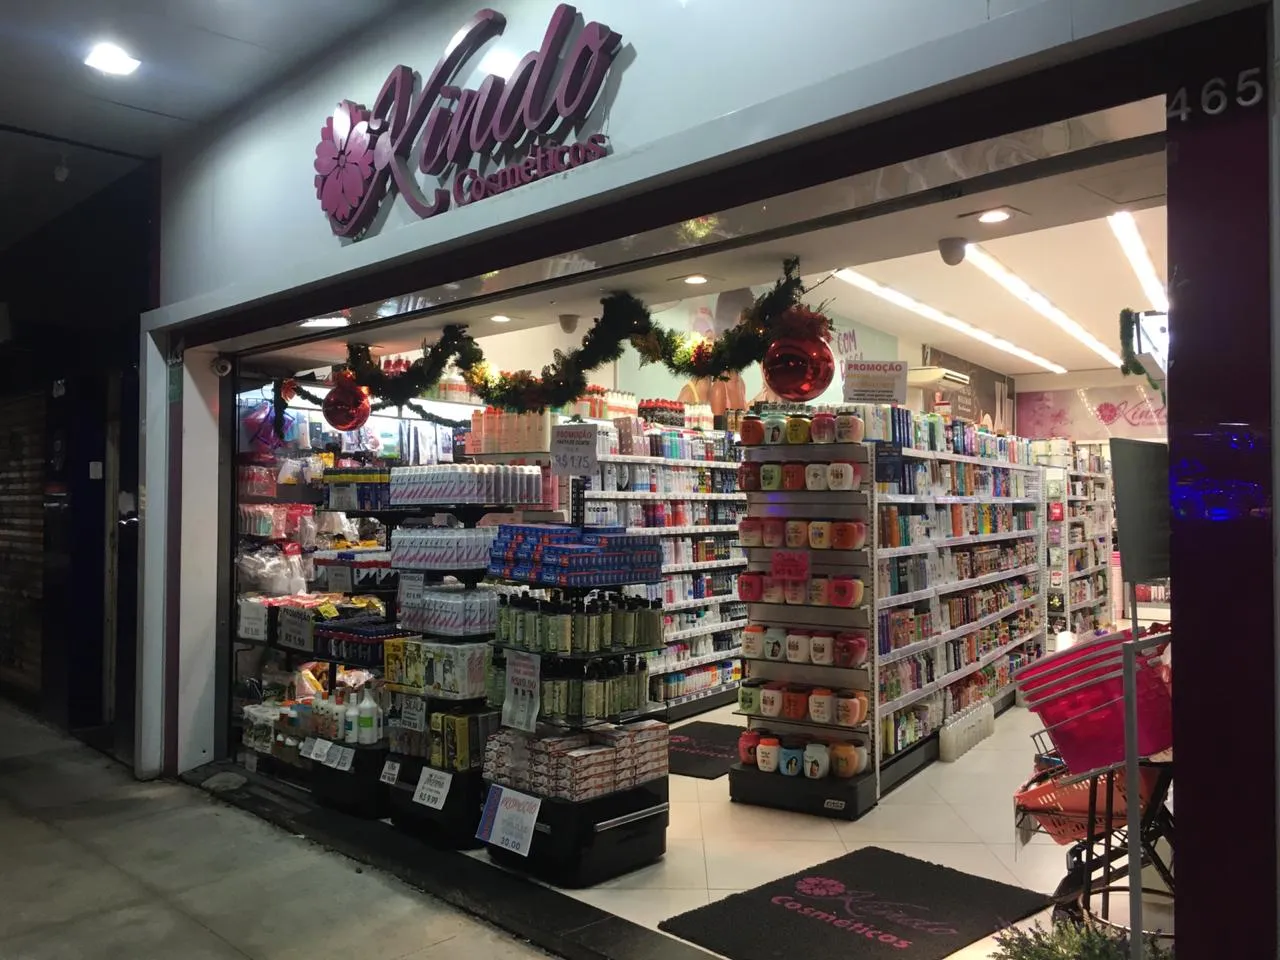
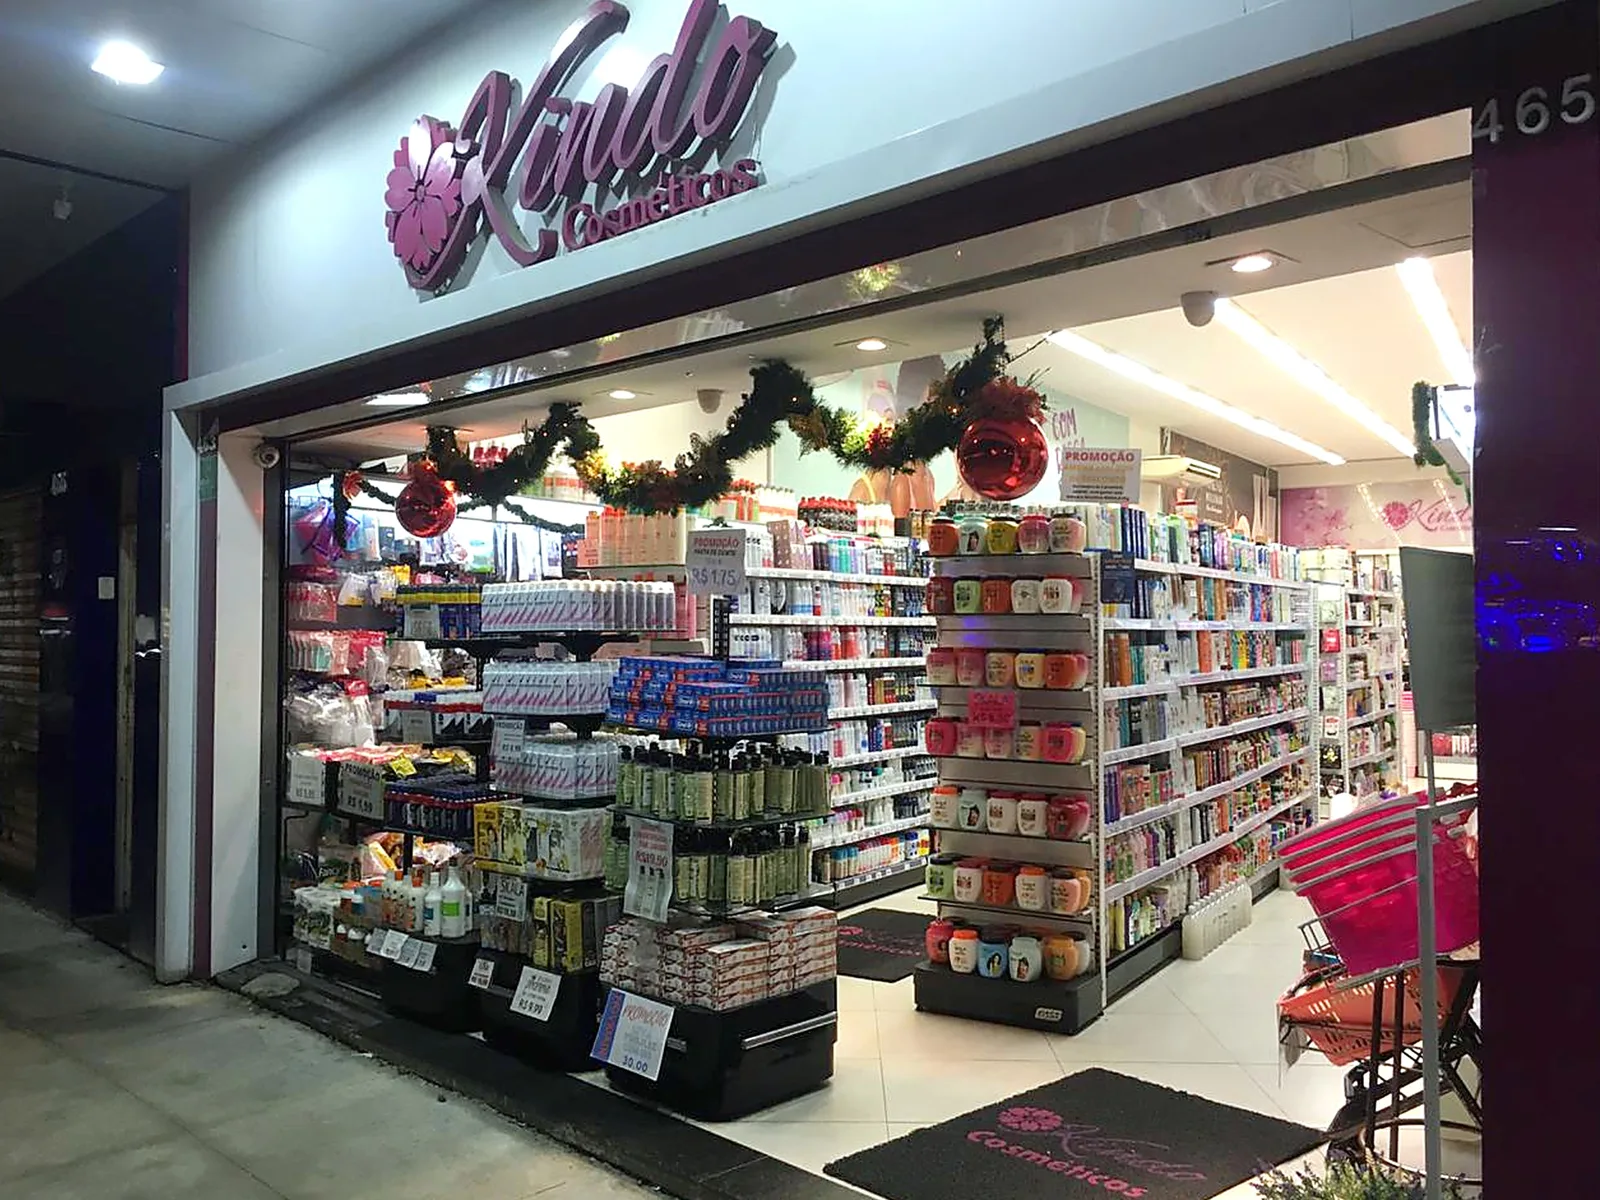
Usa a foto tratada da fachada e informa o horário da Shopee
- Fachada com cor e nitidez corrigidas (aprovada)
- Retirada de pacotes Shopee: das 10h às 18h (Visite, FAQ e rodapé)

Claude-Session: https://claude.ai/code/session_01AJbj2tQMmdLd9ha7q8L9J3

diff --git a/public/index.html b/public/index.html
@@ -26,7 +26,7 @@
   <link href="https://fonts.googleapis.com/css2?family=Figtree:wght@400;500;600;700;800&family=Gilda+Display&display=swap" rel="stylesheet">
   <link rel="stylesheet" href="/styles.css">
   <script type="application/ld+json">{"@context":"https://schema.org","@type":"HealthAndBeautyBusiness","@id":"/#loja","name":"Kindo Cosméticos","alternateName":["Kindo Perfumaria","Kindo Cosméticos Lapa"],"description":"Perfumaria e loja de cosméticos na Lapa, em São Paulo, desde 2002. Tintura e produtos para cabelo, depilação, skincare, perfumes, óleos essenciais e acessórios de beleza. Pedidos pelo WhatsApp com entrega por motoboy no mesmo dia.","image":["/assets/loja/fachada-kindo-lapa.webp","/assets/loja/og-kindo.jpg"],"logo":"/assets/kindo-logo.png","telephone":"+55 11 91372-3597","priceRange":"$","foundingDate":"2002","address":{"@type":"PostalAddress","streetAddress":"Rua Doze de Outubro, 465","addressLocality":"São Paulo","addressRegion":"SP","postalCode":"05073-000","addressCountry":"BR"},"geo":{"@type":"GeoCoordinates","latitude":-23.5220979,"longitude":-46.7050211},"hasMap":"https://www.google.com/maps/search/?api=1&query=Kindo+Cosm%C3%A9ticos&query_place_id=ChIJ2fYfm2P4zpQRSqNrYLAlT6k","openingHoursSpecification":[{"@type":"OpeningHoursSpecification","dayOfWeek":"Monday","opens":"08:30","closes":"19:30"},{"@type":"OpeningHoursSpecification","dayOfWeek":"Tuesday","opens":"08:30","closes":"19:30"},{"@type":"OpeningHoursSpecification","dayOfWeek":"Wednesday","opens":"08:30","closes":"19:30"},{"@type":"OpeningHoursSpecification","dayOfWeek":"Thursday","opens":"08:30","closes":"19:30"},{"@type":"OpeningHoursSpecification","dayOfWeek":"Friday","opens":"08:30","closes":"19:30"},{"@type":"OpeningHoursSpecification","dayOfWeek":"Saturday","opens":"08:30","closes":"19:00"}],"areaServed":["Lapa","Vila Romana","Vila Leopoldina","Pompeia","Perdizes","Água Branca","São Paulo"],"sameAs":["https://www.instagram.com/kindoperfumaria/"]}</script>
-  <script type="application/ld+json">{"@context":"https://schema.org","@type":"FAQPage","mainEntity":[{"@type":"Question","name":"Onde fica a Kindo Cosméticos?","acceptedAnswer":{"@type":"Answer","text":"Na Rua Doze de Outubro, 465, na Lapa, Zona Oeste de São Paulo (CEP 05073-000)."}},{"@type":"Question","name":"Qual o horário de funcionamento?","acceptedAnswer":{"@type":"Answer","text":"De segunda a sexta, das 8h30 às 19h30, e aos sábados, das 8h30 às 19h. Domingo a loja fica fechada."}},{"@type":"Question","name":"A Kindo faz entrega?","acceptedAnswer":{"@type":"Answer","text":"Sim. Você pede pelo WhatsApp (11) 91372-3597 e o motoboy entrega no mesmo dia."}},{"@type":"Question","name":"O preço no WhatsApp é o mesmo da loja?","acceptedAnswer":{"@type":"Answer","text":"É igualzinho. Comprando no balcão ou pelo WhatsApp, você paga o mesmo valor."}},{"@type":"Question","name":"A Kindo é ponto de retirada da Shopee?","acceptedAnswer":{"@type":"Answer","text":"Sim, a loja é ponto de coleta e retirada da Shopee. O horário de retirada de pacotes pode ser diferente do horário da loja, então confirme pelo WhatsApp antes de vir."}},{"@type":"Question","name":"Vocês vendem tintura para cabelo?","acceptedAnswer":{"@type":"Answer","text":"Sim, temos tinturas e coloração de várias marcas, além de tonalizantes e tintura progressiva para cabelo e barba."}},{"@type":"Question","name":"Como fico sabendo das promoções?","acceptedAnswer":{"@type":"Answer","text":"Siga @kindoperfumaria no Instagram. Toda semana tem oferta, incluindo a Segunda do Preço de Custo."}}]}</script>
+  <script type="application/ld+json">{"@context":"https://schema.org","@type":"FAQPage","mainEntity":[{"@type":"Question","name":"Onde fica a Kindo Cosméticos?","acceptedAnswer":{"@type":"Answer","text":"Na Rua Doze de Outubro, 465, na Lapa, Zona Oeste de São Paulo (CEP 05073-000)."}},{"@type":"Question","name":"Qual o horário de funcionamento?","acceptedAnswer":{"@type":"Answer","text":"De segunda a sexta, das 8h30 às 19h30, e aos sábados, das 8h30 às 19h. Domingo a loja fica fechada."}},{"@type":"Question","name":"A Kindo faz entrega?","acceptedAnswer":{"@type":"Answer","text":"Sim. Você pede pelo WhatsApp (11) 91372-3597 e o motoboy entrega no mesmo dia."}},{"@type":"Question","name":"O preço no WhatsApp é o mesmo da loja?","acceptedAnswer":{"@type":"Answer","text":"É igualzinho. Comprando no balcão ou pelo WhatsApp, você paga o mesmo valor."}},{"@type":"Question","name":"A Kindo é ponto de retirada da Shopee?","acceptedAnswer":{"@type":"Answer","text":"Sim, a loja é ponto de coleta e retirada da Shopee. A retirada e a entrega de pacotes Shopee funcionam das 10h às 18h, horário diferente do da loja."}},{"@type":"Question","name":"Vocês vendem tintura para cabelo?","acceptedAnswer":{"@type":"Answer","text":"Sim, temos tinturas e coloração de várias marcas, além de tonalizantes e tintura progressiva para cabelo e barba."}},{"@type":"Question","name":"Como fico sabendo das promoções?","acceptedAnswer":{"@type":"Answer","text":"Siga @kindoperfumaria no Instagram. Toda semana tem oferta, incluindo a Segunda do Preço de Custo."}}]}</script>
 </head>
 <body>
   <div class="aviso">
@@ -66,7 +66,7 @@
           </a>
         </div>
         <figure class="hero__foto">
-          <img src="/assets/loja/fachada-kindo-lapa.webp" alt="Fachada da Kindo Cosméticos na Rua Doze de Outubro, 465, Lapa" width="1280" height="960" fetchpriority="high">
+          <img src="/assets/loja/fachada-kindo-lapa.webp" alt="Fachada da Kindo Cosméticos na Rua Doze de Outubro, 465, Lapa" width="1600" height="1200" fetchpriority="high">
           <figcaption>
             <strong>Rua Doze de Outubro, 465</strong>
             <span>Lapa, São Paulo – SP</span>
@@ -281,7 +281,7 @@
             <dt>WhatsApp</dt>
             <dd><a href="https://wa.me/5511913723597" target="_blank" rel="noopener">(11) 91372-3597</a></dd>
             <dt>Shopee</dt>
-            <dd>Ponto de coleta e retirada. Confirme o horário de retirada pelo WhatsApp.</dd>
+            <dd>Ponto de coleta e retirada<br>Pacotes Shopee: <strong>das 10h às 18h</strong></dd>
           </dl>
           <div class="hero__cta">
             <a class="btn btn--zap" href="https://wa.me/5511913723597?text=Ol%C3%A1%2C%20Kindo!" target="_blank" rel="noopener"><svg viewBox="0 0 32 32" aria-hidden="true"><path fill="currentColor" d="M16 3C9 3 3.3 8.6 3.3 15.6c0 2.2.6 4.4 1.7 6.3L3 29l7.3-1.9c1.8 1 3.8 1.5 5.8 1.5 7 0 12.7-5.7 12.7-12.6C28.7 8.6 23 3 16 3zm0 23.1c-1.9 0-3.8-.5-5.4-1.5l-.4-.2-4.3 1.1 1.2-4.2-.3-.4c-1.1-1.7-1.6-3.6-1.6-5.5C5.2 9.8 10 5 16 5s10.8 4.7 10.8 10.6S22 26.1 16 26.1zm5.9-7.9c-.3-.2-1.9-.9-2.2-1-.3-.1-.5-.2-.7.2-.2.3-.8 1-1 1.2-.2.2-.4.2-.7.1-.3-.2-1.4-.5-2.6-1.6-1-.9-1.6-1.9-1.8-2.2-.2-.3 0-.5.1-.7l.5-.6c.2-.2.2-.3.3-.5.1-.2.1-.4 0-.6l-1-2.4c-.3-.6-.5-.5-.7-.5h-.6c-.2 0-.6.1-.9.4-.3.3-1.2 1.1-1.2 2.8s1.2 3.3 1.4 3.5c.2.2 2.4 3.6 5.8 5 .8.3 1.4.5 1.9.7.8.3 1.5.2 2.1.1.6-.1 1.9-.8 2.2-1.5.3-.7.3-1.4.2-1.5-.1-.2-.3-.3-.6-.4z"/></svg> Chamar no WhatsApp</a>
@@ -314,7 +314,7 @@
         <details><summary>Qual o horário de funcionamento?</summary><p>De segunda a sexta, das 8h30 às 19h30, e aos sábados, das 8h30 às 19h. Domingo a loja fica fechada.</p></details>
         <details><summary>A Kindo faz entrega?</summary><p>Sim. Você pede pelo WhatsApp (11) 91372-3597 e o motoboy entrega no mesmo dia.</p></details>
         <details><summary>O preço no WhatsApp é o mesmo da loja?</summary><p>É igualzinho. Comprando no balcão ou pelo WhatsApp, você paga o mesmo valor.</p></details>
-        <details><summary>A Kindo é ponto de retirada da Shopee?</summary><p>Sim, a loja é ponto de coleta e retirada da Shopee. O horário de retirada de pacotes pode ser diferente do horário da loja, então confirme pelo WhatsApp antes de vir.</p></details>
+        <details><summary>A Kindo é ponto de retirada da Shopee?</summary><p>Sim, a loja é ponto de coleta e retirada da Shopee. A retirada e a entrega de pacotes Shopee funcionam das 10h às 18h, horário diferente do da loja.</p></details>
         <details><summary>Vocês vendem tintura para cabelo?</summary><p>Sim, temos tinturas e coloração de várias marcas, além de tonalizantes e tintura progressiva para cabelo e barba.</p></details>
         <details><summary>Como fico sabendo das promoções?</summary><p>Siga @kindoperfumaria no Instagram. Toda semana tem oferta, incluindo a Segunda do Preço de Custo.</p></details>
       </div>
@@ -334,7 +334,7 @@
       </div>
       <div>
         <h3>Horário</h3>
-        <p>Segunda a sexta: 08h30 às 19h30<br>Sábado: 08h30 às 19h<br>Domingo: fechado</p>
+        <p>Segunda a sexta: 08h30 às 19h30<br>Sábado: 08h30 às 19h<br>Domingo: fechado<br>Pacotes Shopee: 10h às 18h</p>
       </div>
       <div>
         <h3>Fale com a gente</h3>

diff --git a/public/produtos/index.html b/public/produtos/index.html
@@ -455,7 +455,7 @@
       </div>
       <div>
         <h3>Horário</h3>
-        <p>Segunda a sexta: 08h30 às 19h30<br>Sábado: 08h30 às 19h<br>Domingo: fechado</p>
+        <p>Segunda a sexta: 08h30 às 19h30<br>Sábado: 08h30 às 19h<br>Domingo: fechado<br>Pacotes Shopee: 10h às 18h</p>
       </div>
       <div>
         <h3>Fale com a gente</h3>
